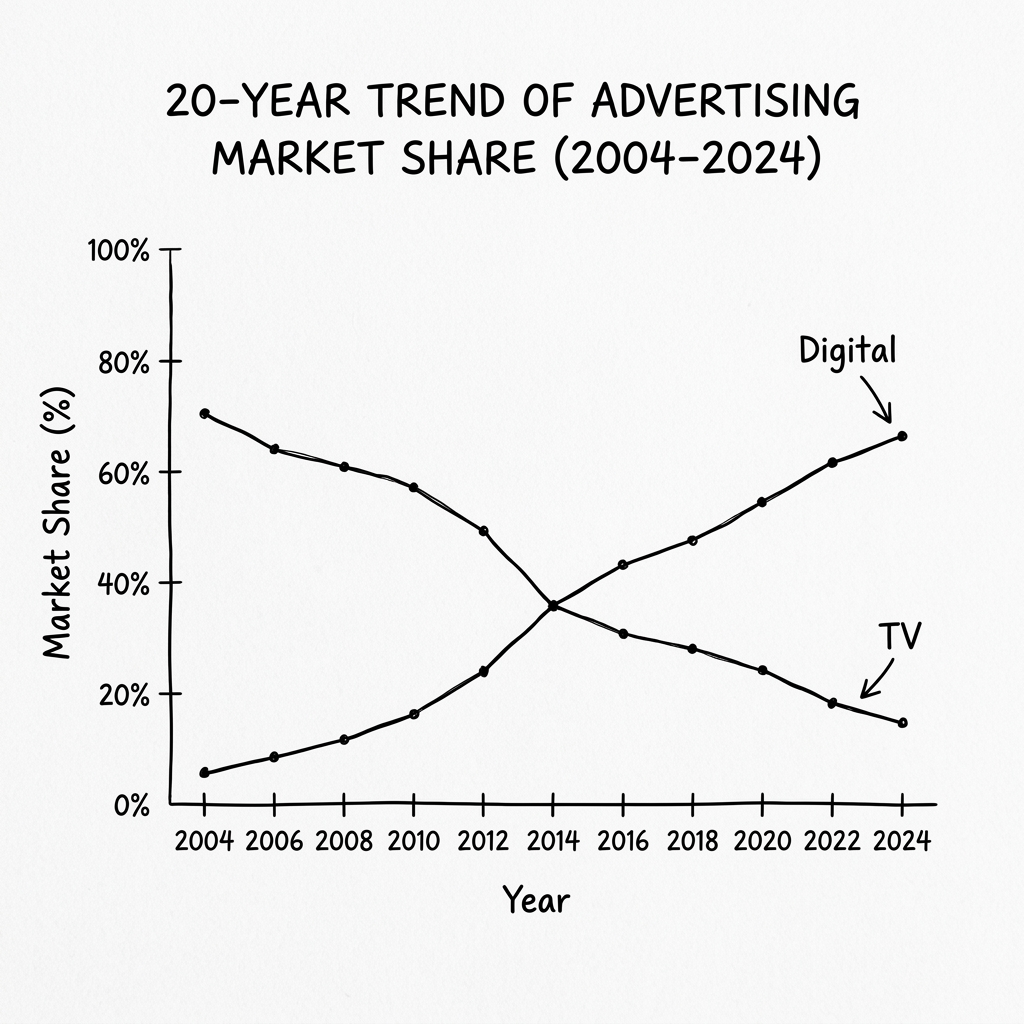
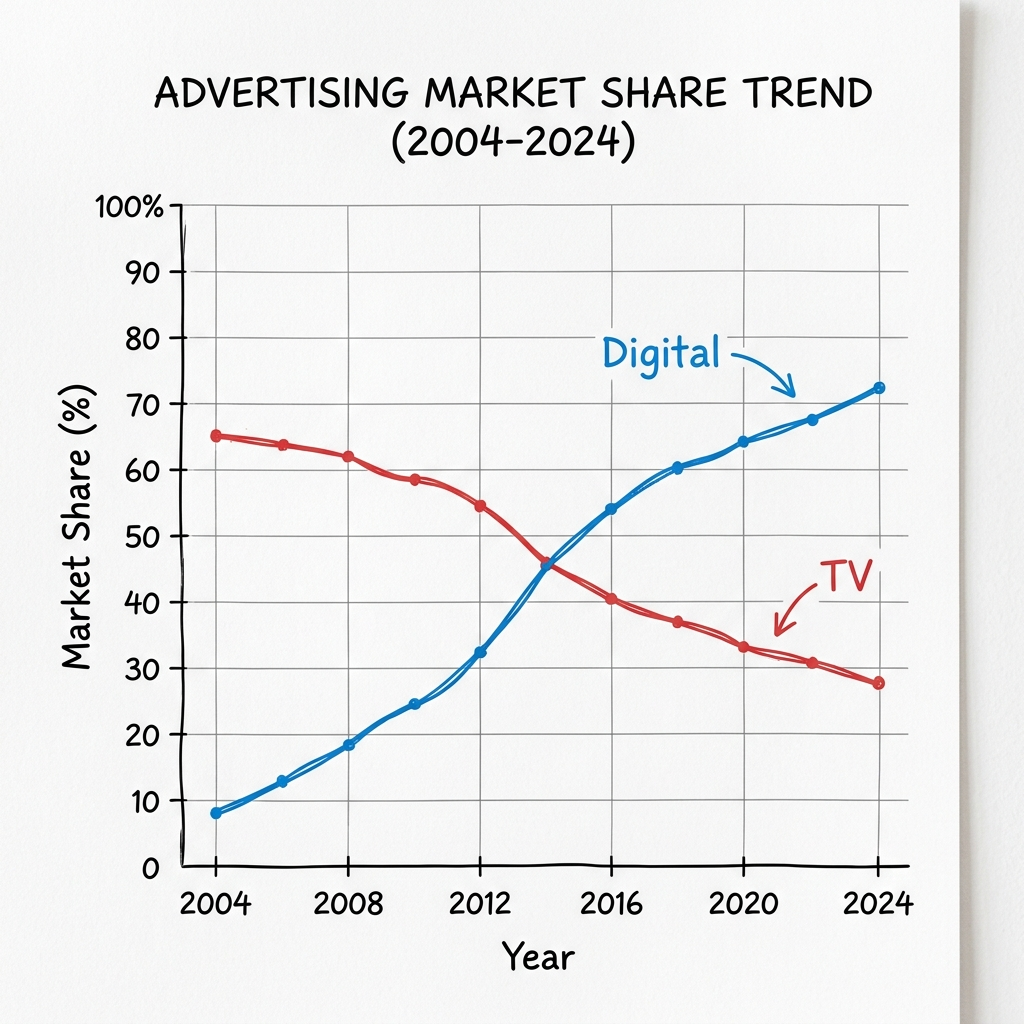
docs: update ad market growth graph with colors and data source citation

diff --git a/content/posts/Marketing/2026-04-29-terrestrial-ad-market-collapse-digital-shift.md b/content/posts/Marketing/2026-04-29-terrestrial-ad-market-collapse-digital-shift.md
@@ -17,7 +17,7 @@ tags:
 1990년대부터 2000년대 초반까지만 해도 지상파 TV 광고는 브랜딩과 세일즈를 위한 '유일하고도 가장 강력한' 무기였습니다. 하지만 초고속 인터넷의 보급과 스마트폰의 등장은 이 견고했던 성벽을 허물었습니다.
 
 ![Digital vs TV Ad Growth](/images/posts/digital-vs-tv-growth.png)
-*2004년부터 2024년까지의 글로벌 광고 시장 점유율 추이. 2016~2017년을 기점으로 디지털 광고비가 TV 광고비를 추월하는 '골든 크로스'가 발생했습니다.*
+*2004년부터 2024년까지의 글로벌 광고 시장 점유율 추이 (파란색: 디지털, 붉은색: TV). 2016~2017년을 기점으로 디지털 광고비가 TV 광고비를 추월하는 '골든 크로스'가 발생했습니다. (데이터 출처: eMarketer Worldwide Ad Spending 추이 및 Statista 글로벌 광고 매출 통계 종합)*
 
 ### 글로벌 시장의 '골든 크로스'와 주요 마일스톤
 전 세계 및 미국 광고 시장에서 디지털 광고비가 TV 광고비를 완전히 역전한 시기는 대략 **2016년에서 2017년 사이**입니다. 이 거대한 전환을 이끈 20년간의 주요 사건들은 다음과 같습니다.
